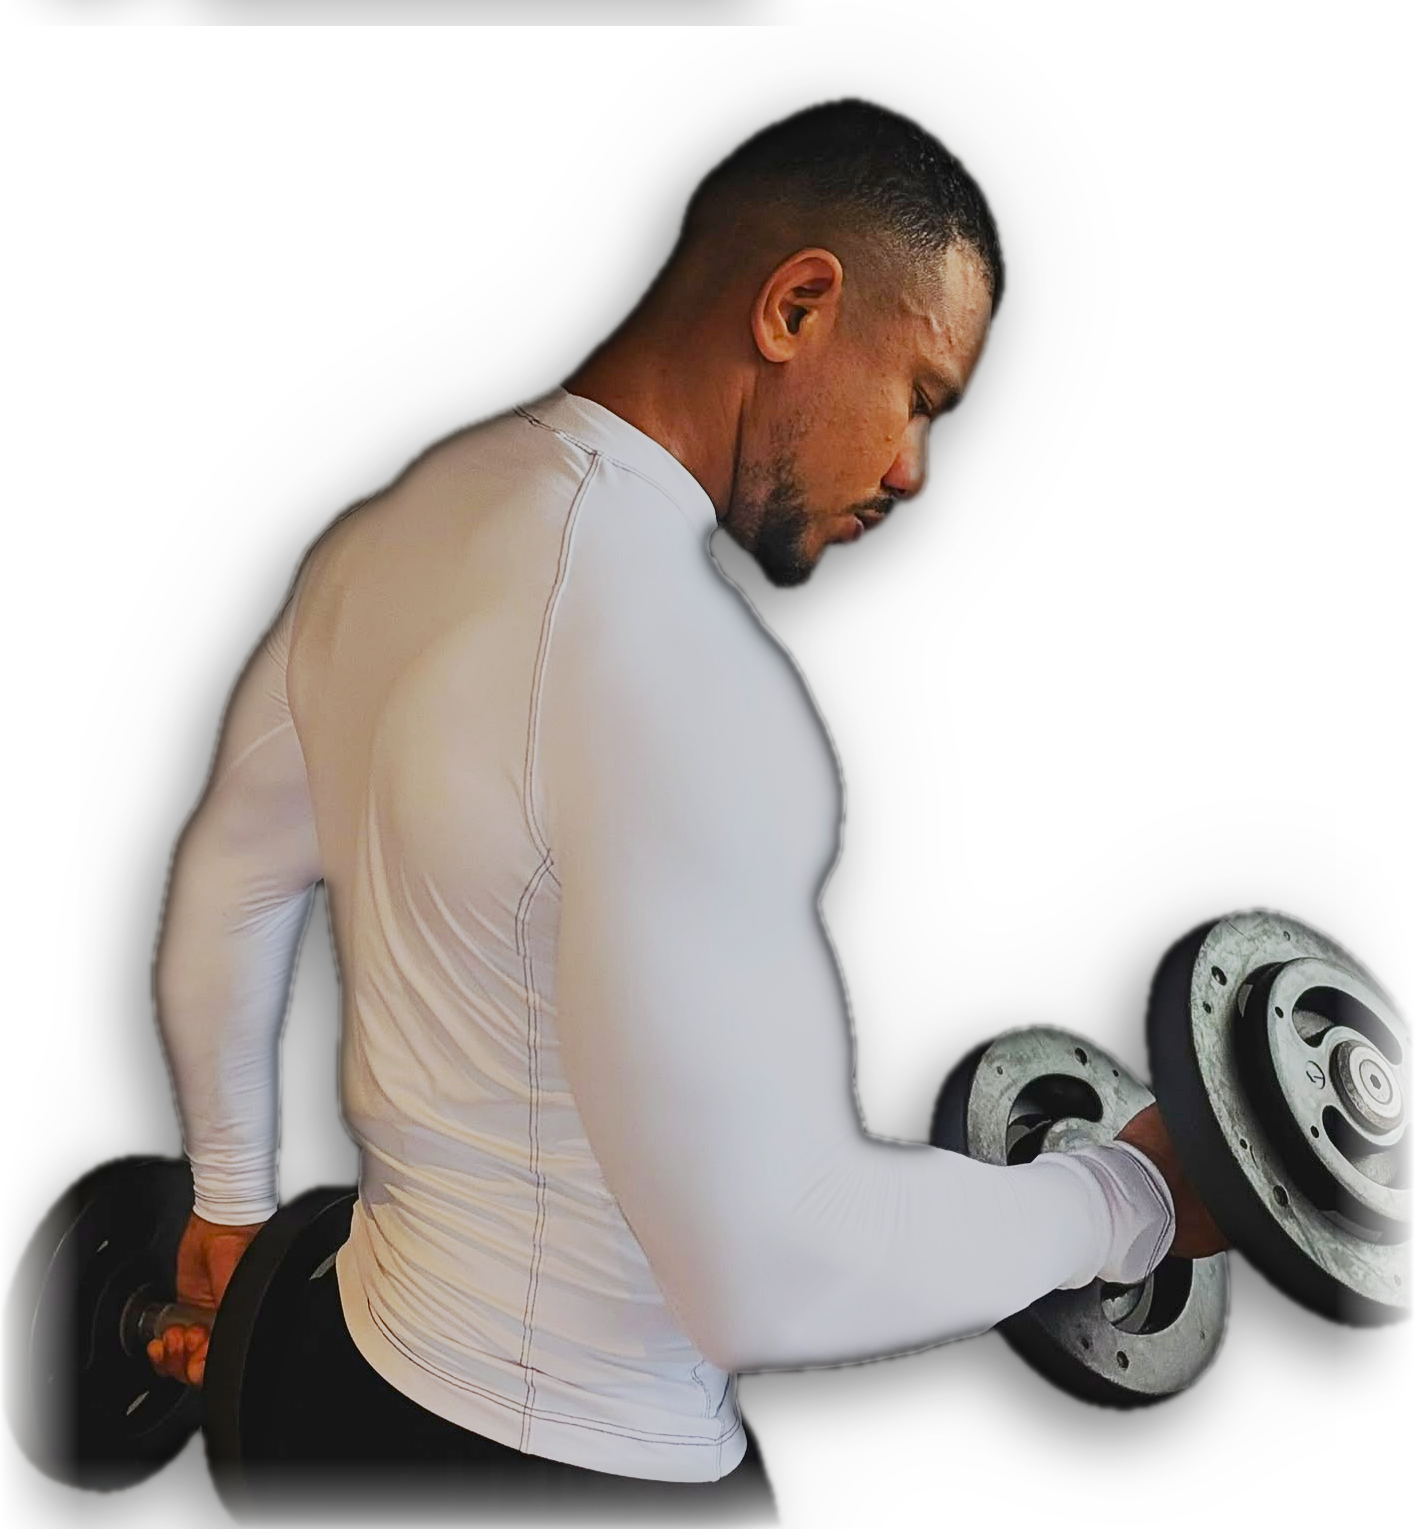
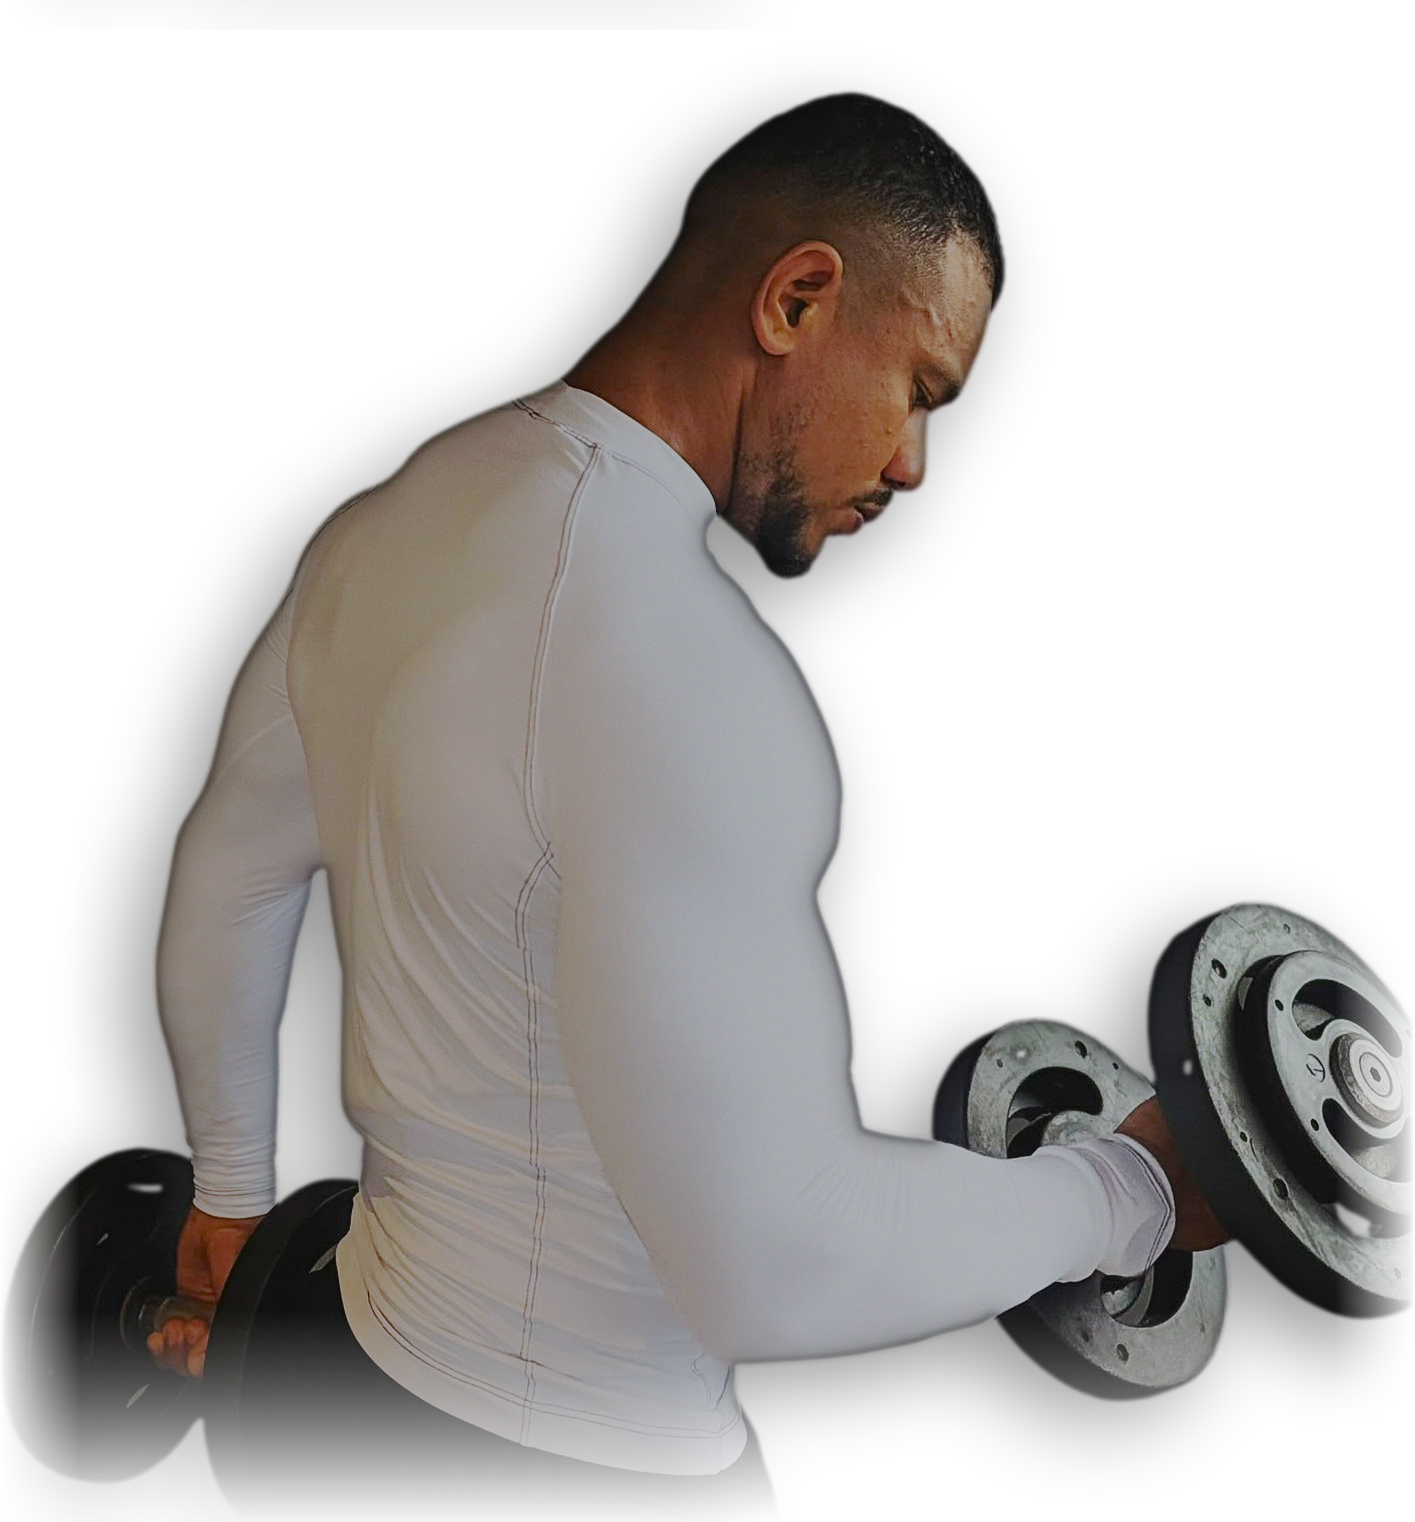
Hero com o recorte do cliente e integração sem halo
Troca o recorte automático pelo recorte manual e refaz a integração
com o fundo: borda com a cor do ambiente, sombreamento lateral, grão,
sombra difusa e camisa branca com altas-luzes contidas.

Claude-Session: https://claude.ai/code/session_01GAEskKzM2YSHQyvgLip5Wy

diff --git a/_brief-imagens/hero-v2/montar.py b/_brief-imagens/hero-v2/montar.py
@@ -3,11 +3,36 @@ from PIL import Image, ImageFilter, ImageChops
 import numpy as np
 B='_brief-imagens/hero-bg/'; V='_brief-imagens/hero-v2/'; OUT='public/wp-content/uploads/2024/11/'
 exec(open(B+'integrar.py').read().split('# desktop: recorte original')[0])     # traz integrar()
-cut=Image.open(V+'recorte.png').convert('RGBA'); cut=cut.crop(cut.getbbox())
+cut=Image.open(V+'recorte-gabriel.png').convert('RGBA'); cut=cut.crop(cut.getbbox())   # recorte feito pelo Gabriel
 # camisa branca: segura as altas-luzes antes da integracao
 rgb=np.asarray(cut.convert('RGB'),np.float32); al=cut.getchannel('A')
-rgb=np.where(rgb>175,175+(rgb-175)*0.62,rgb)*0.97
+rgb=np.where(rgb>160,160+(rgb-160)*0.5,rgb)*0.93          # camisa branca sem estourar
+cinza=rgb.mean(-1,keepdims=True); rgb=cinza+(rgb-cinza)*0.86     # menos saturacao, casa com o fundo cinza
+rgb=rgb*np.array([0.985,0.995,1.02],np.float32)                   # leve puxada fria
 cut=Image.fromarray(np.clip(rgb,0,255).astype(np.uint8)).convert('RGBA'); cut.putalpha(al)
+def integrar2(im, fade_px, bg=(15,15,17)):
+    """integracao sem halo: borda suave, light-wrap leve, sombreamento lateral, grao e sombra difusa"""
+    im=im.convert('RGBA'); W,H=im.size; BGc=np.array(bg,np.float32)
+    rgb=np.asarray(im.convert('RGB'),np.float32)
+    a=im.getchannel('A').filter(ImageFilter.MinFilter(3)).filter(ImageFilter.GaussianBlur(1.6))
+    af=np.asarray(a,np.float32)/255
+    in1=np.asarray(a.filter(ImageFilter.MinFilter(9)).filter(ImageFilter.GaussianBlur(3)),np.float32)/255
+    in2=np.asarray(a.filter(ImageFilter.MinFilter(25)).filter(ImageFilter.GaussianBlur(10)),np.float32)/255
+    e1=np.clip(af-in1,0,1)[...,None]; e2=np.clip(af-in2,0,1)[...,None]
+    rgb=rgb*(1-0.42*e1)+BGc*0.42*e1                     # a borda recebe a cor do ambiente
+    rgb=rgb*(1-0.14*e2)                                   # afunda de leve, sem contorno preto
+    ys,xs=np.nonzero(af>0.5); x0,x1=xs.min(),xs.max()
+    grad=0.84+0.16*np.clip((np.arange(W)-x0)/max(1,x1-x0),0,1)   # luz vem da direita, esquerda mais escura
+    rgb=rgb*grad[None,:,None]
+    rgb=rgb+np.random.default_rng(7).normal(0,2.6,rgb.shape).astype(np.float32)   # grao unifica com o fundo
+    yy=np.arange(H)[:,None]; af=af*np.clip((H-1-yy)/fade_px,0,1)**1.2
+    sujeito=Image.fromarray(np.clip(rgb,0,255).astype(np.uint8)).convert('RGBA')
+    sujeito.putalpha(Image.fromarray((af*255).astype(np.uint8)))
+    sil=Image.fromarray((af*255).astype(np.uint8))
+    sombra=Image.new('RGBA',(W,H),(0,0,0,0))
+    sombra.putalpha(ImageChops.offset(sil.filter(ImageFilter.GaussianBlur(38)),-26,30).point(lambda v:int(v*0.42)))
+    out=Image.new('RGBA',(W,H),(0,0,0,0)); out.alpha_composite(sombra); out.alpha_composite(sujeito)
+    return out
 def lateral(layer, x0, x1, largura):
     """os halteres saem cortados pela foto original: some nas bordas do sujeito"""
     a=np.asarray(layer.getchannel('A'),np.float32); W=a.shape[1]; xx=np.arange(W)[None,:]
@@ -21,12 +46,12 @@ def colocar(size, escala, left, top):
 M=90                                                    # margem para brilho e sombra
 esc=1.0; s=cut.resize((round(cut.width*esc),round(cut.height*esc)),Image.LANCZOS)
 tela=Image.new('RGBA',(s.width+2*M, s.height+M),(0,0,0,0)); tela.alpha_composite(s,(M,M))
-d=integrar(tela,70,glow_amp=0.09,shadow_amp=0.45)
+d=integrar2(tela,210)
 d=lateral(d,M,M+s.width,80)
 d=d.crop(d.getbbox())
 d.save(V+'desktop-emerson.png'); d.save(OUT+'ng-car12ol1-emerson.webp',quality=94,method=6)
 # mobile: camada no fluxo, 800 de largura, cintura para cima
 esc=780/cut.width; m,x0,x1=colocar((800,round(cut.height*esc)+10),esc,10,0)
-m=lateral(integrar(m,80,glow_amp=0.09,shadow_amp=0.45),x0,x1,55)
+m=lateral(integrar2(m,120),x0,x1,55)
 m.save(V+'mobile-emerson.png'); m.save(OUT+'ng-carol1-mi12ble-emerson.webp',quality=94,method=6)
 print('desktop',d.size,'mobile',m.size)
